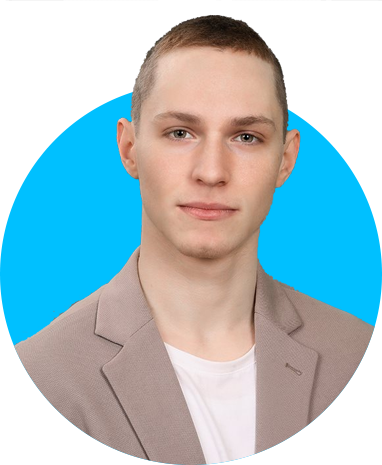
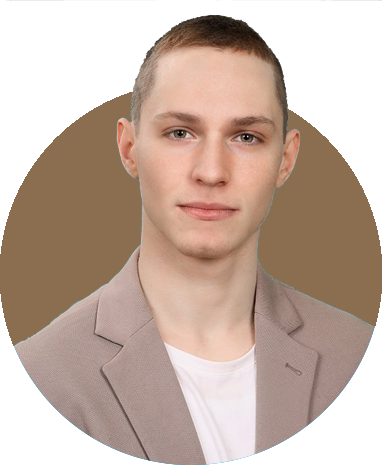
fixed-picture

diff --git a/index.html b/index.html
@@ -36,7 +36,7 @@
     </div>
 
     <div id="home-content-wrapper">
-        <img id="home-picture" src="img/test.png" alt="Picture of me" data-tilt data-tilt-glare>
+        <img id="home-picture" src="img/home-picture.png" alt="Picture of me" data-tilt data-tilt-glare>
         <div id="main-content">
             <h1>Hey, I'm <span>HRISTIJAN</span></h1>
             <p>
